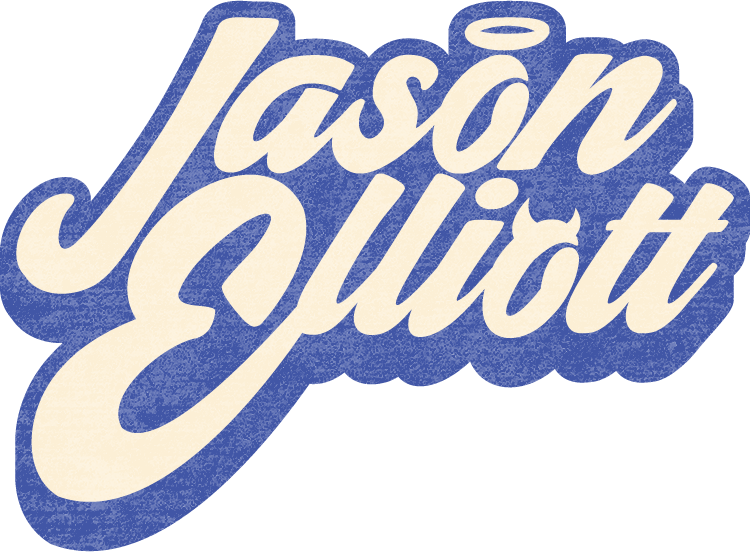
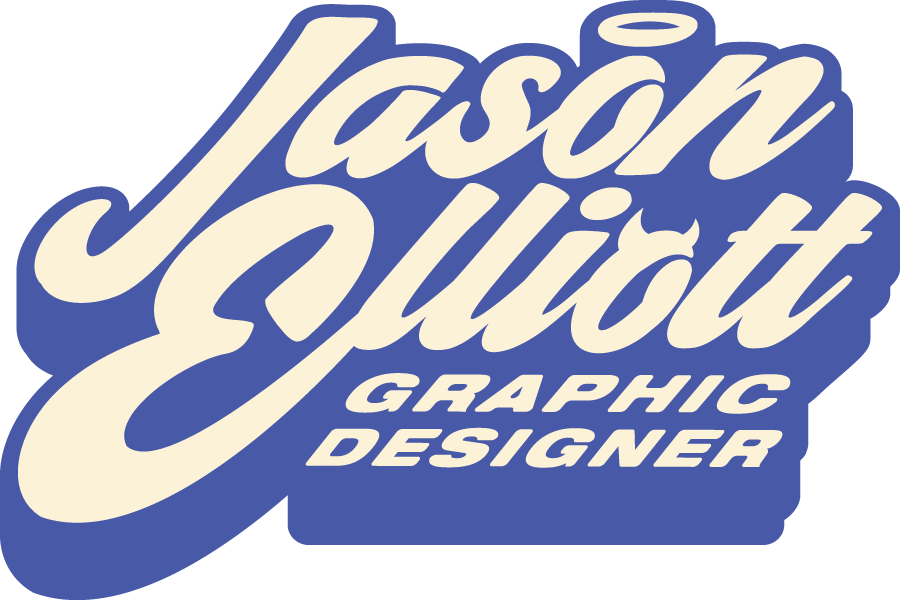
Update

diff --git a/Illustration.html b/Illustration.html
@@ -72,17 +72,18 @@
   </div>
 </div>
 <div class="container-fluid gx-0">
-  <footer class="footer-basic  mt-5">
-    <div class="social"><a target="new" href="https://instagram.com/xocuffs/"><i class="icon ion-social-instagram"></i></a><a target="new" href="https://www.linkedin.com/in/jason-elliott-790454203/"><i class="icon ion-social-linkedin"></i></a></div>
-    <ul class="list-inline">
-      <li class="list-inline-item"><a href="index.html">HOME</a></li>
-      <li class="list-inline-item"><a href="Design.html">GRAPHIC DESIGN</a></li>
-      <li class="list-inline-item"><a href="Illustration.html">PERSONAL WORK</a></li>
-      <li class="list-inline-item"><a href="about.html">ABOUT</a></li>
-      <li class="list-inline-item"><a href="Contact.html">CONTACT</a></li>
-    </ul>
-    <p class="copyright">Jason Elliott - Graphic Design and Illustration</p>
-  </footer>
-</div>
+    <footer class="footer-basic mt-5">
+      
+      <ul class="list-inline">
+        <li class="list-inline-item"><a href="index.html">HOME</a></li>
+        <li class="list-inline-item"><a href="Design.html">GRAPHIC DESIGN</a></li>
+        <li class="list-inline-item"><a href="Illustration.html">PERSONAL WORK</a></li>
+        <li class="list-inline-item"><a href="about.html">ABOUT</a></li>
+        <li class="list-inline-item"><a href="Contact.html">CONTACT</a></li>
+      </ul>
+      <p class="copyright">Jason Elliott - Graphic Design and Illustration</p>
+		<div class="social"><a target="new" href="https://instagram.com/xocuffs/"><i class="icon ion-social-instagram"></i></a><a target="new" href="https://www.linkedin.com/in/jason-elliott-790454203/"><i class="icon ion-social-linkedin"></i></a></div>
+    </footer>
+  </div>
 </body>
 </html>

diff --git a/Design.html b/Design.html
@@ -72,17 +72,18 @@
   </div>
 </div>
 <div class="container-fluid gx-0">
-  <footer class="footer-basic mt-5">
-    <div class="social"><a target="new" href="https://instagram.com/xocuffs/"><i class="icon ion-social-instagram"></i></a><a target="new" href="https://www.linkedin.com/in/jason-elliott-790454203/"><i class="icon ion-social-linkedin"></i></a></div>
-    <ul class="list-inline">
-      <li class="list-inline-item"><a href="index.html">HOME</a></li>
-      <li class="list-inline-item"><a href="Design.html">GRAPHIC DESIGN</a></li>
-      <li class="list-inline-item"><a href="Illustration.html">PERSONAL WORK</a></li>
-      <li class="list-inline-item"><a href="about.html">ABOUT</a></li>
-      <li class="list-inline-item"><a href="Contact.html">CONTACT</a></li>
-    </ul>
-    <p class="copyright">Jason Elliott - Graphic Design and Illustration</p>
-  </footer>
-</div>
+    <footer class="footer-basic mt-5">
+      
+      <ul class="list-inline">
+        <li class="list-inline-item"><a href="index.html">HOME</a></li>
+        <li class="list-inline-item"><a href="Design.html">GRAPHIC DESIGN</a></li>
+        <li class="list-inline-item"><a href="Illustration.html">PERSONAL WORK</a></li>
+        <li class="list-inline-item"><a href="about.html">ABOUT</a></li>
+        <li class="list-inline-item"><a href="Contact.html">CONTACT</a></li>
+      </ul>
+      <p class="copyright">Jason Elliott - Graphic Design and Illustration</p>
+		<div class="social"><a target="new" href="https://instagram.com/xocuffs/"><i class="icon ion-social-instagram"></i></a><a target="new" href="https://www.linkedin.com/in/jason-elliott-790454203/"><i class="icon ion-social-linkedin"></i></a></div>
+    </footer>
+  </div>
 </body>
 </html>

diff --git a/about.html b/about.html
@@ -46,13 +46,13 @@
     </div>
     <div class="row mt-5">
       <div class="col">
-        <div class = "container" align = "center"> <img src="assets/img/je_type.png" style="max-height: 150px" alt = "Jason Elliott - Logo"> </div>
+        <div class = "container" align = "center"> <img src="assets/img/je_logo.png" style="max-height: 100px" alt = "Jason Elliott - Logo"> </div>
       </div>
     </div>
   </div>
   <div class="container-fluid gx-0">
     <footer class="footer-basic mt-5">
-      <div class="social"><a target="new" href="https://instagram.com/xocuffs/"><i class="icon ion-social-instagram"></i></a><a target="new" href="https://www.linkedin.com/in/jason-elliott-790454203/"><i class="icon ion-social-linkedin"></i></a></div>
+      
       <ul class="list-inline">
         <li class="list-inline-item"><a href="index.html">HOME</a></li>
         <li class="list-inline-item"><a href="Design.html">GRAPHIC DESIGN</a></li>
@@ -61,6 +61,7 @@
         <li class="list-inline-item"><a href="Contact.html">CONTACT</a></li>
       </ul>
       <p class="copyright">Jason Elliott - Graphic Design and Illustration</p>
+		<div class="social"><a target="new" href="https://instagram.com/xocuffs/"><i class="icon ion-social-instagram"></i></a><a target="new" href="https://www.linkedin.com/in/jason-elliott-790454203/"><i class="icon ion-social-linkedin"></i></a></div>
     </footer>
   </div>
 </div>

diff --git a/Hill and Sons.html b/Hill and Sons.html
@@ -73,9 +73,9 @@
       <br>
       <b>The main objective of this brand identity for Hill and Sons was to create a brewery that focused heavily on the experience of participating in extreme sports, also with the intent of promoting ambition, dedication and rebellion, whilst introudcing a younger, drinking age audience to the craft beer scene.</b></p1>
   </div>
-  <div class="container-fluid gx-0">
+ <div class="container-fluid gx-0">
     <footer class="footer-basic mt-5">
-      <div class="social"><a target="new" href="https://instagram.com/xocuffs/"><i class="icon ion-social-instagram"></i></a><a target="new" href="https://www.linkedin.com/in/jason-elliott-790454203/"><i class="icon ion-social-linkedin"></i></a></div>
+      
       <ul class="list-inline">
         <li class="list-inline-item"><a href="index.html">HOME</a></li>
         <li class="list-inline-item"><a href="Design.html">GRAPHIC DESIGN</a></li>
@@ -84,6 +84,7 @@
         <li class="list-inline-item"><a href="Contact.html">CONTACT</a></li>
       </ul>
       <p class="copyright">Jason Elliott - Graphic Design and Illustration</p>
+		<div class="social"><a target="new" href="https://instagram.com/xocuffs/"><i class="icon ion-social-instagram"></i></a><a target="new" href="https://www.linkedin.com/in/jason-elliott-790454203/"><i class="icon ion-social-linkedin"></i></a></div>
     </footer>
   </div>
 </div>

diff --git a/Luna.html b/Luna.html
@@ -68,7 +68,7 @@ Luna stimulates the feeling of desire, as it opens the doors
   </div>
   <div class="container-fluid gx-0">
     <footer class="footer-basic mt-5">
-      <div class="social"><a target="new" href="https://instagram.com/xocuffs/"><i class="icon ion-social-instagram"></i></a><a target="new" href="https://www.linkedin.com/in/jason-elliott-790454203/"><i class="icon ion-social-linkedin"></i></a></div>
+      
       <ul class="list-inline">
         <li class="list-inline-item"><a href="index.html">HOME</a></li>
         <li class="list-inline-item"><a href="Design.html">GRAPHIC DESIGN</a></li>
@@ -77,6 +77,7 @@ Luna stimulates the feeling of desire, as it opens the doors
         <li class="list-inline-item"><a href="Contact.html">CONTACT</a></li>
       </ul>
       <p class="copyright">Jason Elliott - Graphic Design and Illustration</p>
+		<div class="social"><a target="new" href="https://instagram.com/xocuffs/"><i class="icon ion-social-instagram"></i></a><a target="new" href="https://www.linkedin.com/in/jason-elliott-790454203/"><i class="icon ion-social-linkedin"></i></a></div>
     </footer>
   </div>
 </div>

diff --git a/Glazed Grounds.html b/Glazed Grounds.html
@@ -63,9 +63,9 @@
   <div class = "container-sm" align = "left">
     <p1></p1>
   </div>
-  <div class="container-fluid gx-0">
+<div class="container-fluid gx-0">
     <footer class="footer-basic mt-5">
-      <div class="social"><a target="new" href="https://instagram.com/xocuffs/"><i class="icon ion-social-instagram"></i></a><a target="new" href="https://www.linkedin.com/in/jason-elliott-790454203/"><i class="icon ion-social-linkedin"></i></a></div>
+      
       <ul class="list-inline">
         <li class="list-inline-item"><a href="index.html">HOME</a></li>
         <li class="list-inline-item"><a href="Design.html">GRAPHIC DESIGN</a></li>
@@ -74,6 +74,7 @@
         <li class="list-inline-item"><a href="Contact.html">CONTACT</a></li>
       </ul>
       <p class="copyright">Jason Elliott - Graphic Design and Illustration</p>
+		<div class="social"><a target="new" href="https://instagram.com/xocuffs/"><i class="icon ion-social-instagram"></i></a><a target="new" href="https://www.linkedin.com/in/jason-elliott-790454203/"><i class="icon ion-social-linkedin"></i></a></div>
     </footer>
   </div>
 </div>

diff --git a/index.html b/index.html
@@ -56,9 +56,9 @@
       </div>
     </div>
   </div>
-  <div class="container-fluid gx-0">
+<div class="container-fluid gx-0">
     <footer class="footer-basic mt-5">
-      <div class="social"><a target="new" href="https://instagram.com/xocuffs/"><i class="icon ion-social-instagram"></i></a><a target="new" href="https://www.linkedin.com/in/jason-elliott-790454203/"><i class="icon ion-social-linkedin"></i></a></div>
+      
       <ul class="list-inline">
         <li class="list-inline-item"><a href="index.html">HOME</a></li>
         <li class="list-inline-item"><a href="Design.html">GRAPHIC DESIGN</a></li>
@@ -67,6 +67,7 @@
         <li class="list-inline-item"><a href="Contact.html">CONTACT</a></li>
       </ul>
       <p class="copyright">Jason Elliott - Graphic Design and Illustration</p>
+		<div class="social"><a target="new" href="https://instagram.com/xocuffs/"><i class="icon ion-social-instagram"></i></a><a target="new" href="https://www.linkedin.com/in/jason-elliott-790454203/"><i class="icon ion-social-linkedin"></i></a></div>
     </footer>
   </div>
 </div>

diff --git a/Vintage Meets Hype.html b/Vintage Meets Hype.html
@@ -53,7 +53,7 @@ Logo and Mural Design</h3>
   </div>
   <div class="container-fluid gx-0">
     <footer class="footer-basic mt-5">
-      <div class="social"><a target="new" href="https://instagram.com/xocuffs/"><i class="icon ion-social-instagram"></i></a><a target="new" href="https://www.linkedin.com/in/jason-elliott-790454203/"><i class="icon ion-social-linkedin"></i></a></div>
+      
       <ul class="list-inline">
         <li class="list-inline-item"><a href="index.html">HOME</a></li>
         <li class="list-inline-item"><a href="Design.html">GRAPHIC DESIGN</a></li>
@@ -62,6 +62,7 @@ Logo and Mural Design</h3>
         <li class="list-inline-item"><a href="Contact.html">CONTACT</a></li>
       </ul>
       <p class="copyright">Jason Elliott - Graphic Design and Illustration</p>
+		<div class="social"><a target="new" href="https://instagram.com/xocuffs/"><i class="icon ion-social-instagram"></i></a><a target="new" href="https://www.linkedin.com/in/jason-elliott-790454203/"><i class="icon ion-social-linkedin"></i></a></div>
     </footer>
   </div>
 </div>

diff --git a/assets/css/styles.css b/assets/css/styles.css
@@ -106,6 +106,7 @@ h5 {
   background-color: white;
   color: #404040;
 }
+
 .footer-basic ul {
   padding: 0;
   list-style: none;
@@ -115,6 +116,7 @@ h5 {
   margin-bottom: 0;
 }
 .footer-basic li {
+	color: #4959A7;
   padding: 0 10px;
 }
 .footer-basic ul a {
@@ -126,36 +128,31 @@ h5 {
   opacity: 1;
 }
 .footer-basic .social {
-  color: #404040;
+		margin-bottom: 10px;
   text-align: center;
-  padding-bottom: 25px;
 }
 .footer-basic .social > a {
+	text-align: center;
   font-size: 24px;
   width: 40px;
-  height: 40px;
-  line-height: 40px;
   display: inline-block;
-  text-align: center;
-  border-radius: 50%;
-  border: 1px solid #ccc;
-  margin: 0 8px;
-  color: inherit;
+	padding: 0px;
+  color: #404040;
   opacity: 0.75;
 }
 .footer-basic .social > a:hover {
   opacity: 0.9;
 }
 .footer-basic .copyright {
-  margin-top: 15px;
   text-align: center;
-  font-size: 13px;
+  font-size: 12px;
   color: #404040;
-  margin-bottom: 0;
+  margin: 10px;
 }
 .list-inline-item {
   color: #404040;
 }
+
 /* Image utilities */
 img.fill {
   object-fit: fill;

diff --git a/E-Sprite.html b/E-Sprite.html
@@ -104,7 +104,7 @@
   </div>
   <div class="container-fluid gx-0">
     <footer class="footer-basic mt-5">
-      <div class="social"><a target="new" href="https://instagram.com/xocuffs/"><i class="icon ion-social-instagram"></i></a><a target="new" href="https://www.linkedin.com/in/jason-elliott-790454203/"><i class="icon ion-social-linkedin"></i></a></div>
+      
       <ul class="list-inline">
         <li class="list-inline-item"><a href="index.html">HOME</a></li>
         <li class="list-inline-item"><a href="Design.html">GRAPHIC DESIGN</a></li>
@@ -113,6 +113,7 @@
         <li class="list-inline-item"><a href="Contact.html">CONTACT</a></li>
       </ul>
       <p class="copyright">Jason Elliott - Graphic Design and Illustration</p>
+		<div class="social"><a target="new" href="https://instagram.com/xocuffs/"><i class="icon ion-social-instagram"></i></a><a target="new" href="https://www.linkedin.com/in/jason-elliott-790454203/"><i class="icon ion-social-linkedin"></i></a></div>
     </footer>
   </div>
 </div>

diff --git a/Redline.html b/Redline.html
@@ -76,7 +76,7 @@
   </div>
   <div class="container-fluid gx-0">
     <footer class="footer-basic mt-5">
-      <div class="social"><a target="new" href="https://instagram.com/xocuffs/"><i class="icon ion-social-instagram"></i></a><a target="new" href="https://www.linkedin.com/in/jason-elliott-790454203/"><i class="icon ion-social-linkedin"></i></a></div>
+      
       <ul class="list-inline">
         <li class="list-inline-item"><a href="index.html">HOME</a></li>
         <li class="list-inline-item"><a href="Design.html">GRAPHIC DESIGN</a></li>
@@ -85,6 +85,7 @@
         <li class="list-inline-item"><a href="Contact.html">CONTACT</a></li>
       </ul>
       <p class="copyright">Jason Elliott - Graphic Design and Illustration</p>
+		<div class="social"><a target="new" href="https://instagram.com/xocuffs/"><i class="icon ion-social-instagram"></i></a><a target="new" href="https://www.linkedin.com/in/jason-elliott-790454203/"><i class="icon ion-social-linkedin"></i></a></div>
     </footer>
   </div>
 </div>

diff --git a/Contact.html b/Contact.html
@@ -65,7 +65,7 @@
 </div>
  <div class="container-fluid gx-0">
     <footer class="footer-basic mt-5">
-      <div class="social"><a target="new" href="https://instagram.com/xocuffs/"><i class="icon ion-social-instagram"></i></a><a target="new" href="https://www.linkedin.com/in/jason-elliott-790454203/"><i class="icon ion-social-linkedin"></i></a></div>
+      
       <ul class="list-inline">
         <li class="list-inline-item"><a href="index.html">HOME</a></li>
         <li class="list-inline-item"><a href="Design.html">GRAPHIC DESIGN</a></li>
@@ -74,6 +74,7 @@
         <li class="list-inline-item"><a href="Contact.html">CONTACT</a></li>
       </ul>
       <p class="copyright">Jason Elliott - Graphic Design and Illustration</p>
+		<div class="social"><a target="new" href="https://instagram.com/xocuffs/"><i class="icon ion-social-instagram"></i></a><a target="new" href="https://www.linkedin.com/in/jason-elliott-790454203/"><i class="icon ion-social-linkedin"></i></a></div>
     </footer>
   </div>
 </body>
